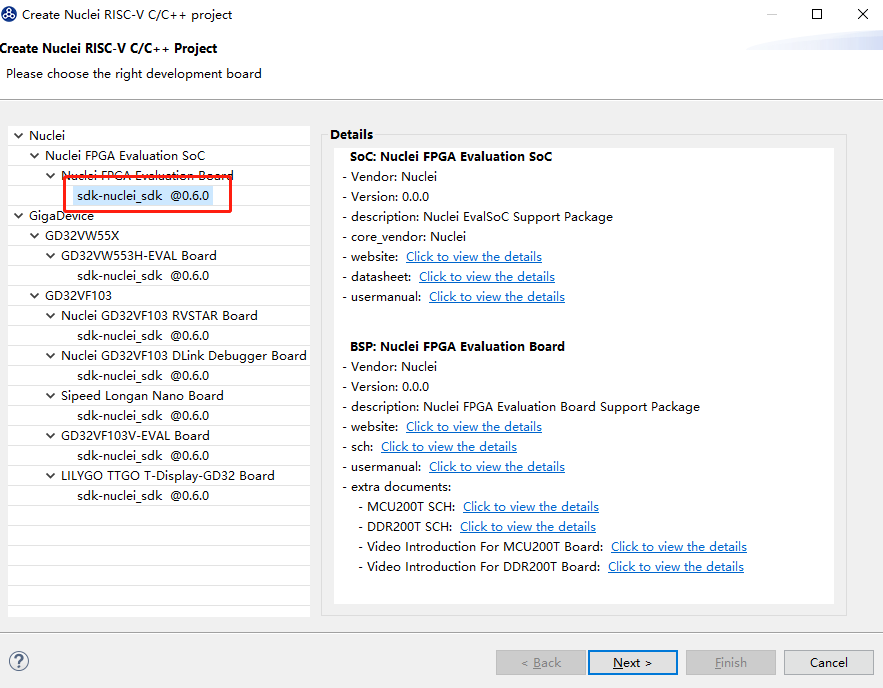
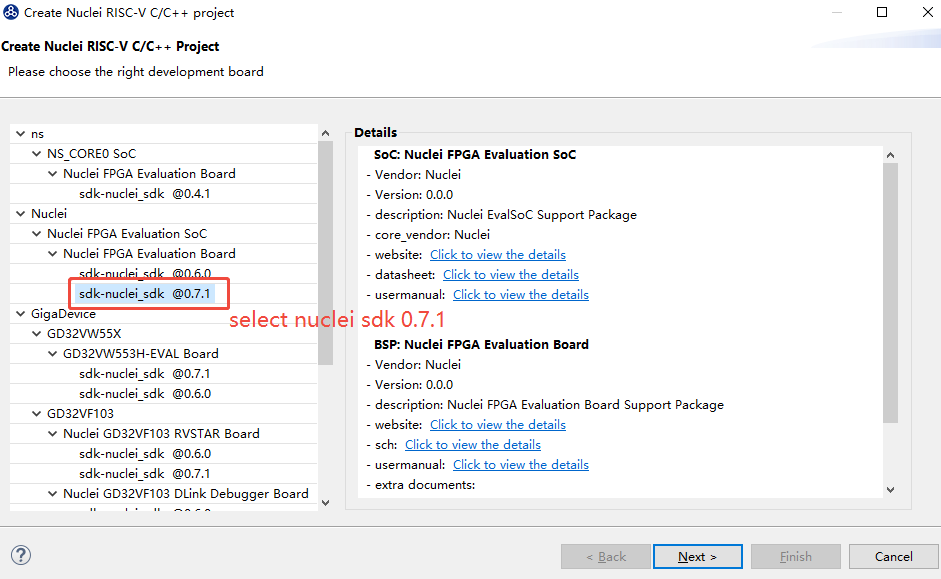
doc: update README.md for nsdk 0.7.1

diff --git a/README.md b/README.md
@@ -8,17 +8,17 @@ We have done TFLM NN kernel optimized implementations(main p/v extension) for Nu
 
 TFLM has been ported to Nuclei RISC-V Processor and Nuclei SDK, you can evaluate it in Nuclei SDK and also in official TFLM build system.
 
-- If you want to use it in directly TFLM build system, please check this repo: https://github.com/Nuclei-Software/tflite-micro/tree/nuclei/nsdk_0.6.0
+- If you want to use it in directly TFLM build system, please check this repo: https://github.com/Nuclei-Software/tflite-micro/tree/nuclei/nsdk_0.7.1
 - If you want to use it in Nuclei SDK or Nuclei Studio as a software component, you can follow the following steps:
 
 **Here are two ways to use Nuclei SDK TFLM component:**
 
-1. Use **Nuclei SDK 0.6.0** in terminal
+1. Use **Nuclei SDK 0.7.1** in terminal
 2. Use **Nuclei Studio IDE 2024.06**
 
 ### Use TFLM in Terminal
 
-1. Get Nuclei SDK (v0.6.0) from https://github.com/Nuclei-Software/nuclei-sdk/releases/tag/0.6.0
+1. Get Nuclei SDK (v0.7.1) from https://github.com/Nuclei-Software/nuclei-sdk/releases/tag/0.7.1
 
 2. Get **tflm** zip package from https://github.com/Nuclei-Software/npk-tflm, unzip it and put under  the *Components* folder of **$NUCLEI_SDK_ROOT**.
 
@@ -77,16 +77,13 @@ TFLM has been ported to Nuclei RISC-V Processor and Nuclei SDK, you can evaluate
 
    ~~~~shell
    cd Components/tflm/examples/xxx
-   make SOC=evalsoc CORE=nx900fd DOWNLOAD=ilm clean
-   make SOC=evalsoc CORE=nx900fd DOWNLOAD=ilm all
-   make SOC=evalsoc CORE=nx900fd DOWNLOAD=ilm run_qemu
+   make SOC=evalsoc CORE=nx900fd DOWNLOAD=ilm clean all run_qemu
 
    # select ARCH_EXT, for example, _xxldsp, v, v_xxldsp, use pure c version if not select ARCH_EXT
    ## _xxldsp: Nuclei DSP extension present
    ## v: v extension present
    ## v_xxldsp: Nuclei DSP and v extension present
-   make SOC=evalsoc CORE=nx900fd ARCH_EXT=v_xxldsp DOWNLOAD=ilm all
-   make SOC=evalsoc CORE=nx900fd ARCH_EXT=v_xxldsp DOWNLOAD=ilm run_qemu
+   make SOC=evalsoc CORE=nx900fd ARCH_EXT=v_xxldsp DOWNLOAD=ilm all run_qemu
    ~~~~
 
    **run on FPGA Board:**
@@ -97,8 +94,7 @@ TFLM has been ported to Nuclei RISC-V Processor and Nuclei SDK, you can evaluate
 
    ~~~shell
    cd Components/tflm/examples/xxx
-   make SOC=evalsoc CORE=nx900fd DOWNLOAD=ilm clean all
-   make SOC=evalsoc CORE=nx900fd DOWNLOAD=ilm upload
+   make SOC=evalsoc CORE=nx900fd DOWNLOAD=ilm clean all upload
    ~~~
 
    Then, result will be printed in the terminal.
@@ -136,18 +132,18 @@ If you met issue like this: `section .text will not fit in region ilm`, this is 
 please use 512K, **if you want to run on hardware, please make sure your cpu bitstream configured with 512K ILM/DLM**.
 
 ```shell
-# file: /path/to/nuclei_sdk/SoC/evalsoc/Board/nuclei_fpga_eval/Source/GCC/gcc_evalsoc_ilm.ld
+# file: /path/to/nuclei_sdk/SoC/evalsoc/Board/nuclei_fpga_eval/Source/GCC/evalsoc.memory
 # Partial as follows:
 
-OUTPUT_ARCH( "riscv" )
+/* ILM Memory Information */
+ILM_MEMORY_PRESENT = 1;
+ILM_MEMORY_BASE = 0x80000000;
+ILM_MEMORY_SIZE = 0x800000;
 
-ENTRY( _start )
-
-MEMORY
-{
-  ilm (rxa!w) : ORIGIN = 0x80000000, LENGTH = 512K  /* change 64K to 512K */
-  ram (wxa!r) : ORIGIN = 0x90000000, LENGTH = 512K  /* change 64K to 512K */
-}
+/* DLM Memory Information */
+DLM_MEMORY_PRESENT = 1;
+DLM_MEMORY_BASE = 0x90000000;
+DLM_MEMORY_SIZE = 0x800000;
 ```
 
 ### Use TFLM in Nuclei Studio IDE
@@ -160,7 +156,7 @@ MEMORY
 
 3. Download the zip package of Nuclei SDK
 
-   > Make sure the version of the SDK should be 0.6.0.
+   > Make sure the version of the SDK should be 0.7.1.
 
    ![install_sdk](doc/images/install_sdk.png)
 
